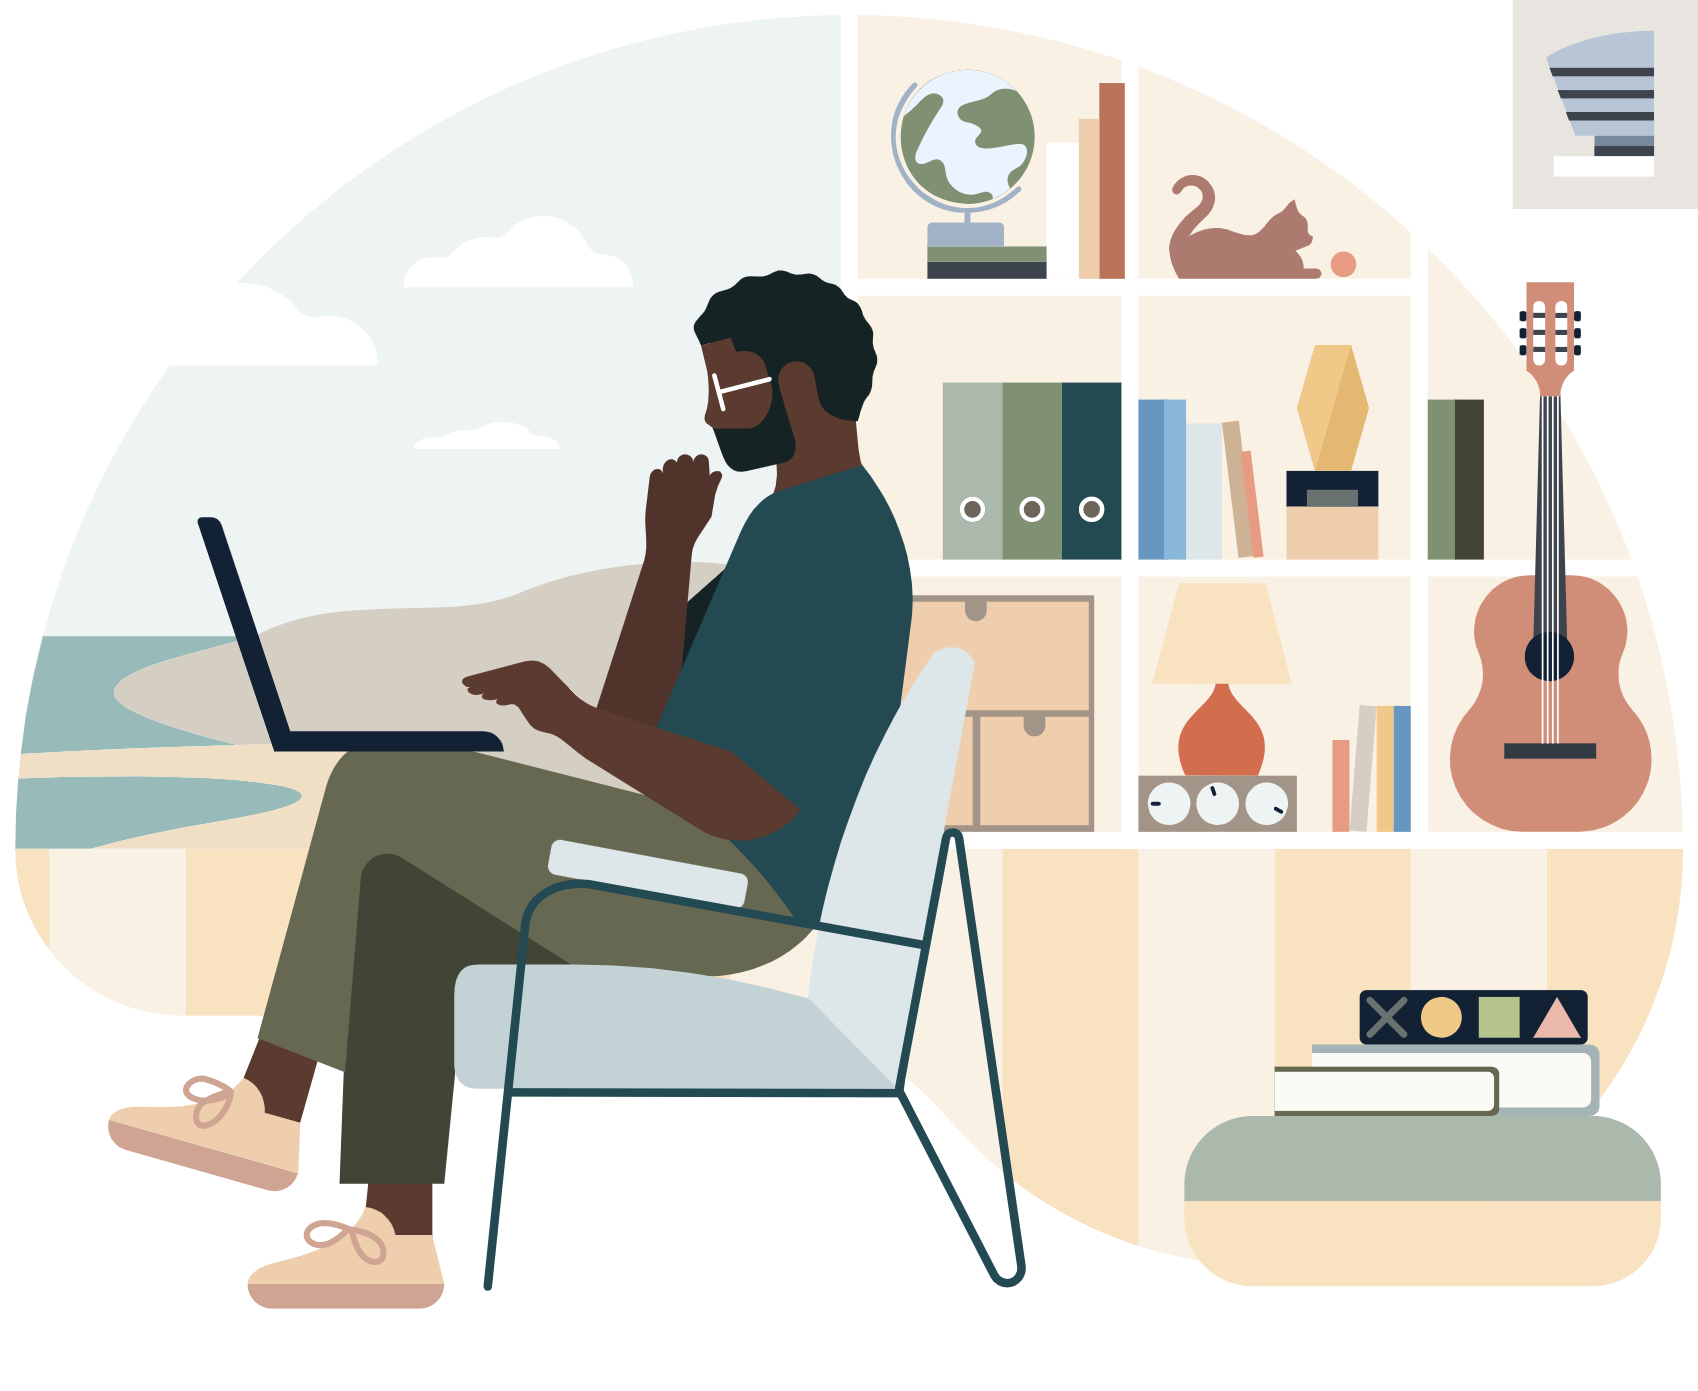
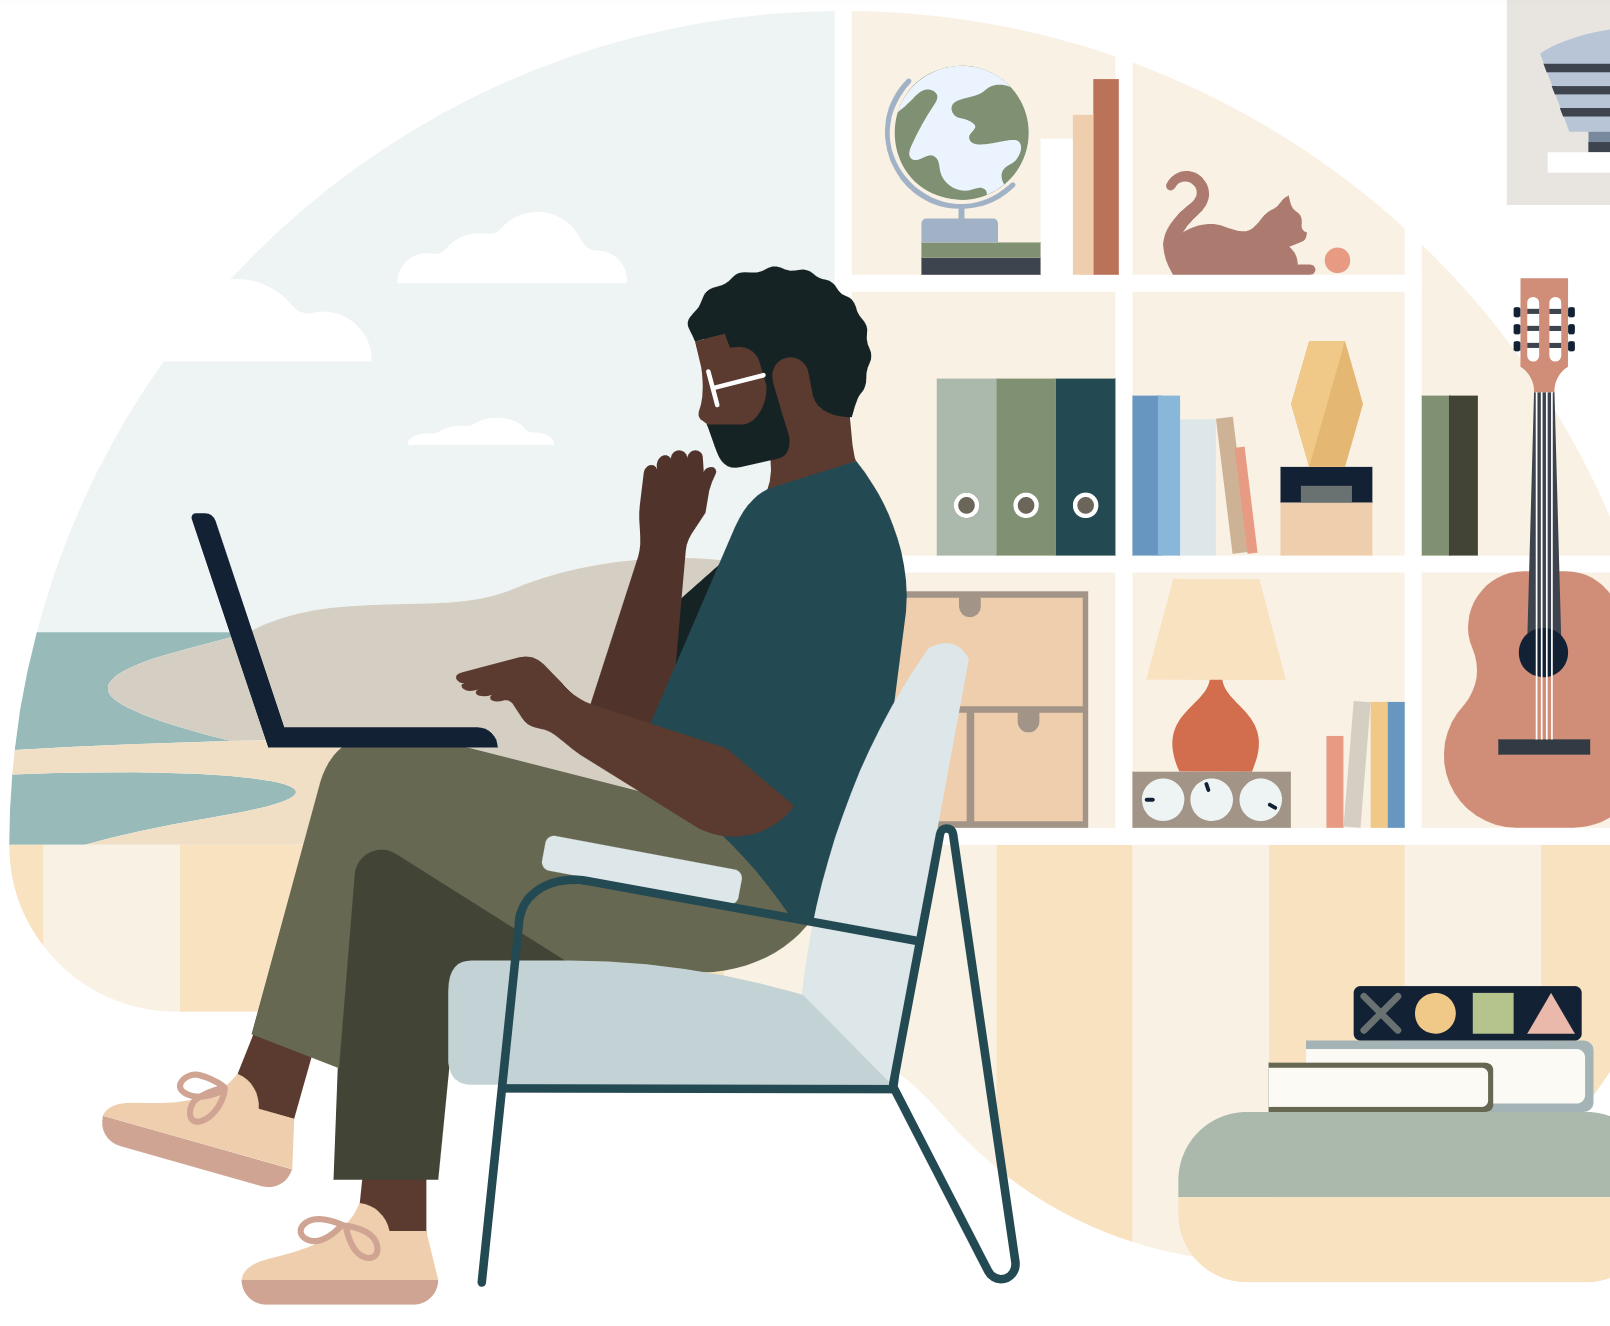
welcome page css complete, prior to sign in form

diff --git a/frontend/src/components/session_form/sign_in_form.css b/frontend/src/components/session_form/sign_in_form.css
@@ -3,15 +3,17 @@
     justify-content: space-between;
     flex-direction: column;
     /* align-items: center; */
-    padding-top: 30px;
-    height: 400px;
+    padding-top: 5px;
+    height: 500px;
+    /* border: 1px solid red; */
+    width: 392px;
 }
 
-.input-container {
-    padding-bottom: 30px;
+.auth-input-container {
+    padding-bottom: 20px;
 }
 
-label {
+.auth-input-container label {
     display: flex;
     flex-direction: column;
     font-weight: 600;
@@ -22,11 +24,7 @@ label {
     padding-bottom: 15px;
 }
 
-h1 {
-    font-size: 50px;
-}
-
-.input {
+.auth-input-box {
     /* padding-bottom: 20px; */
     display: flex;
     justify-content: center;
@@ -34,18 +32,20 @@ h1 {
     height: 50px;
     padding-left: 20px;
     padding-right: 20px;
-    border: 1px solid black;
+    /* border: 1px solid black; */
     border-radius: 4px;
-    
+    box-shadow: 0 0 0 1px black;
 }
 
-.input:hover {
+
+.auth-input-box:hover {
     background-color: rgb(238, 238, 238);
-    border: 2px solid black;
     border-radius: 4px;
+    box-shadow: 0 0 0 2px black;
+    cursor: pointer;
 }
 
-input {
+.auth-input-box input {
     padding-top: 4px;
     width: 350px;
     border: none;
@@ -54,12 +54,69 @@ input {
     
 }
 
-input:focus {
+.auth-input-box input:focus {
     outline: none;
   }
 
-button {
+.sign-in-form button {
     width: 392px;
     height: 50px;
-    /* padding: 10px; */
+    background-color: #0a66c2;
+    color: white;
+    font-family: system-ui, -apple-system, BlinkMacSystemFont, 'Segoe UI', Roboto, Oxygen, Ubuntu, Cantarell, 'Open Sans', 'Helvetica Neue', sans-serif;
+    font-size: 16px;
+    font-weight: 600;
+    padding-top: 12px;
+    padding-bottom: 12px;
+    border-radius: 24px;
+}
+
+.sign-in-form button:hover {
+    background-color: #004182;
+    cursor: pointer;
+}
+
+.or_line_break {
+    padding-top: 5px;
+    padding-bottom: 5px;
+}
+
+.or_line_break h6 {
+    position: relative;
+    text-align: center;
+    font-family: system-ui, -apple-system, BlinkMacSystemFont, 'Segoe UI', Roboto, Oxygen, Ubuntu, Cantarell, 'Open Sans', 'Helvetica Neue', sans-serif;
+    font-size: 14px;
+}
+.or_line_break h6:before {
+    content: "";
+    display: block;
+    width: 45%;
+    height: 1px;
+    background: rgb(184, 184, 184);;
+    left: 0;
+    top: 50%;
+    position: absolute;
+  }
+
+  .or_line_break h6:after {
+    content: "";
+    display: block;
+    width: 45%;
+    height: 1px;
+    background: rgb(184, 184, 184);;
+    right: 0;
+    top: 50%;
+    position: absolute;
+}
+
+.sign-in-form .change-link {
+    padding-top: 12px;
+    background-color: white;
+    color: rgb(85, 85, 85);
+    border-color: rgb(85, 85, 85);
+}
+
+.sign-in-form .change-link:hover {
+    background-color: rgb(238, 238, 238);
+    color: black;
 }

diff --git a/frontend/src/components/session_form/sign_in_form.js b/frontend/src/components/session_form/sign_in_form.js
@@ -23,27 +23,45 @@ const SignInForm = (page = null) => {
     
     return (
         <div>
+            {page === 'welcome' ? null : <h1>Sign In</h1>}
             <form className="sign-in-form" onSubmit={handleSubmit}>
                 {page === 'welcome' ? null : <h1>Sign In</h1>}
                 <p>{errors ? errors : null}</p>
                 
-                <div className="input-container">
-                {/* <div> */}
+                <div className="auth-input-container">
+                
                     <label htmlFor="email">Email</label>
-                    <div className="input">
+                    <div className="auth-input-box">
                         <input type="text" value={email} onChange={e => setEmail(e.target.value)} />
                     </div>
-                {/* </div> */}
 
-                {/* <div> */}
                     <label htmlFor="password">Password</label>
-                    <div className="input">
+                    <div className="auth-input-box">
                         <input type="password" value={password} onChange={e => setPassword(e.target.value)} />
                     </div>
-                {/* </div> */}
+
                 </div>
-                <button type="submit">Sign In</button>
-                <p>New to LockedIn?<Link to="/signup">Join now</Link></p>
+                
+                <button className="main-auth-button" type="submit">Sign In</button>
+                
+                <div className="or_line_break">
+                    {/* <hr/> */}
+                    <h6>or</h6>
+                </div>
+
+                {/* <div className="change-link">
+                    <p>New to LockedIn?<Link to="/signup">Join now</Link></p>
+                </div> */}
+
+                {/* <div className="lower-auth-buttons"> */}
+                    <button className="change-link" onClick={() => { window.location.href = "/login" }}>
+                        Sign in as Demo User
+                    </button>
+
+                    <button className="change-link" onClick={() => { window.location.href = "/signup" }}>
+                        New to LockedIn? Join now
+                    </button>
+                {/* </div> */}
 
             </form>
         </div>

diff --git a/frontend/src/components/welcome/welcome.jsx b/frontend/src/components/welcome/welcome.jsx
@@ -3,7 +3,7 @@ import { Link } from 'react-router-dom';
 // import SignInForm from '../session_form/sign_in_form';
 import githublogo from '../../images/githublogo.jpeg'
 import linkedinlogo from '../../images/linkedinlogo.jpeg'
-import firstbody from '../../images/firstbody.png'
+import firstbodyimage from '../../images/firstbody.png'
 import SignInForm from '../session_form/sign_in_form';
 import './welcome.css'
 
@@ -40,12 +40,10 @@ export default function Welcome() {
                     <div className='left'>
                         <h1 id="welcome-message">Welcome to your professional community</h1>
                         {SignInForm('welcome')}
-                        <Link to="/login">Login</Link>
-                        <Link to="/signup">Sign Up</Link>
                     </div>
 
                     <div className='right'>
-                        <img src={firstbody} alt="welcomephoto" />
+                        <img src={firstbodyimage} alt="welcomephoto" />
                     </div>
     
                 </div>

diff --git a/frontend/src/components/welcome/welcome.css b/frontend/src/components/welcome/welcome.css
@@ -91,20 +91,27 @@ header {
 
 .first-body {
     display: flex;
+    max-width: 100%;
+    overflow-x: hidden;
 }
 
 .first-body .left{
-    max-width: 50%;
+    max-width: 42%;
+    padding-left: 1px;
+    /* border: 1px solid blue; */
+
 }
 
 .first-body .right{
     max-width: 50%;
+    /* border: 1px solid red; */
 }
 
 .first-body .right img {
     padding-top: 40px;
-    max-height: 600px;
-    max-width: 600px;
+    max-height: 800px;
+    max-width: 700px;
+    padding-left: 50px;
 }
 
 
